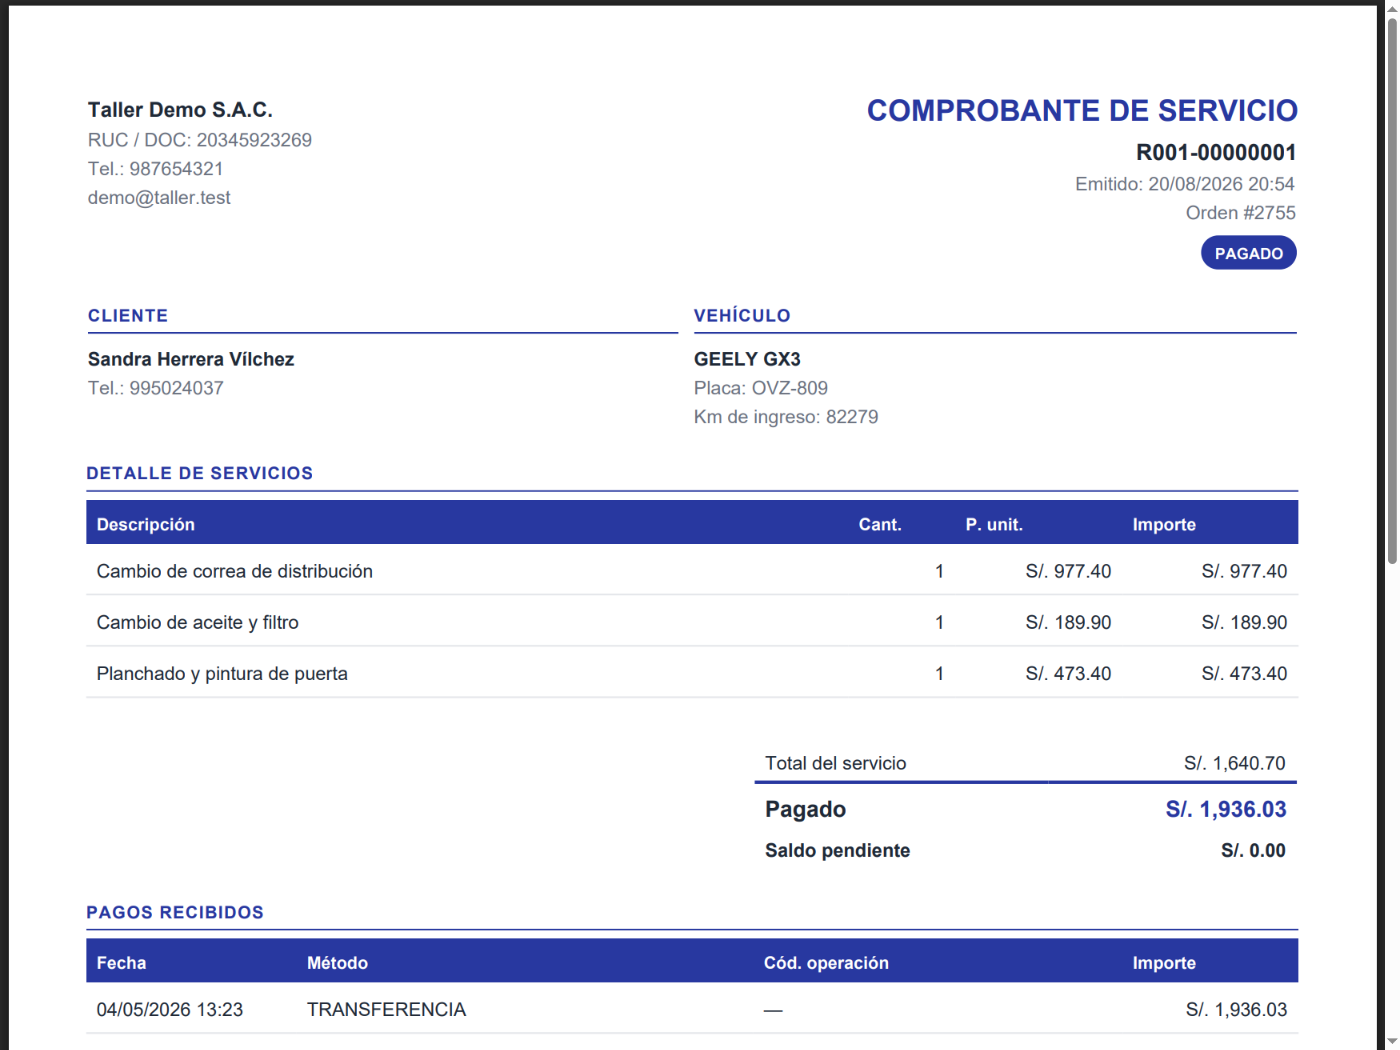
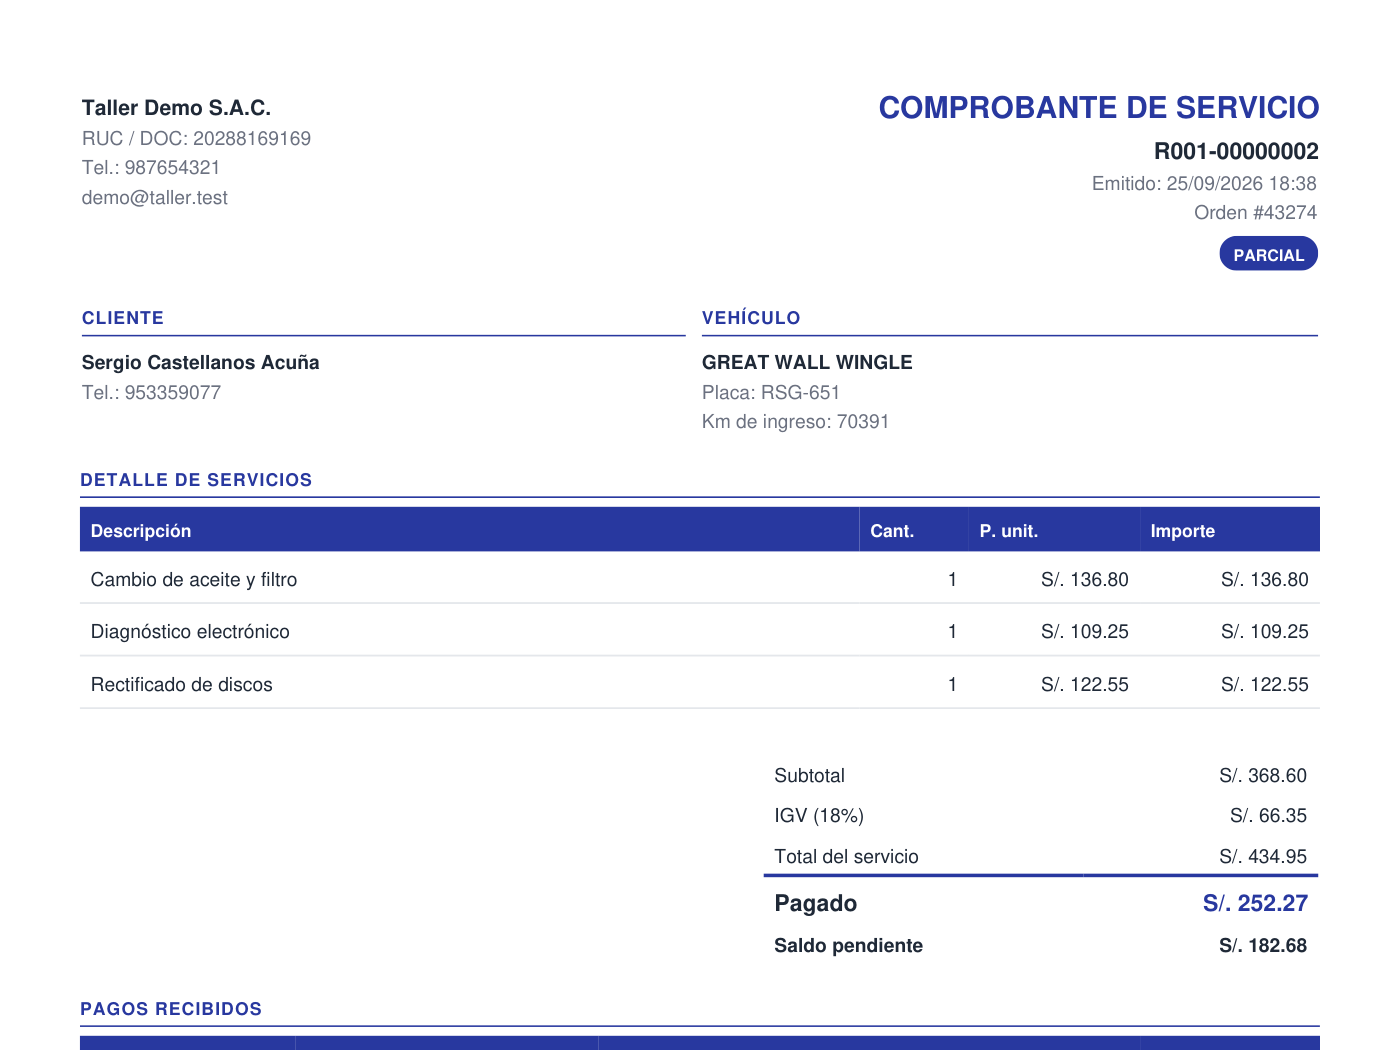
fix(naix): captura del comprobante con los totales cuadrados
La captura anterior venía de una versión del comprobante sin desglose de IGV.
En una orden cotizada «+ IGV» ponía el total sin impuesto (S/ 1,640.70) junto
a lo pagado con impuesto (S/ 1,936.03), y parecía un cobro de más. La nueva
sale del comprobante actual: subtotal, IGV, total, lo pagado y el saldo
pendiente, con un cliente de nombre local.

Claude-Session: https://claude.ai/code/session_01BZWtVmm1LUyvva9hzzL3eP

diff --git a/src/data/software-taller.ts b/src/data/software-taller.ts
@@ -148,9 +148,12 @@ export const features = [
       'Saldo pendiente de cada orden; las cuentas por cobrar del taller, en el plan Pro',
     ],
     placeholder: 'Comprobante de servicio en PDF',
+    // Captura de una orden cotizada «+ IGV» y pagada en parte: enseña el desglose
+    // de IGV, lo pagado y el saldo. La anterior venía de una versión sin
+    // desglose y ponía el total sin IGV junto a lo pagado con IGV (Pagado > Total).
     alt:
-      'Comprobante de servicio de Naix en PDF: datos del taller, cliente y vehículo, ' +
-      'detalle de los servicios cobrados, total pagado y saldo pendiente.',
+      'Comprobante interno de Naix en PDF: datos del taller, cliente y vehículo, detalle ' +
+      'de los servicios, subtotal, IGV, total, lo pagado y el saldo pendiente.',
     reversed: false,
   },
 ];
